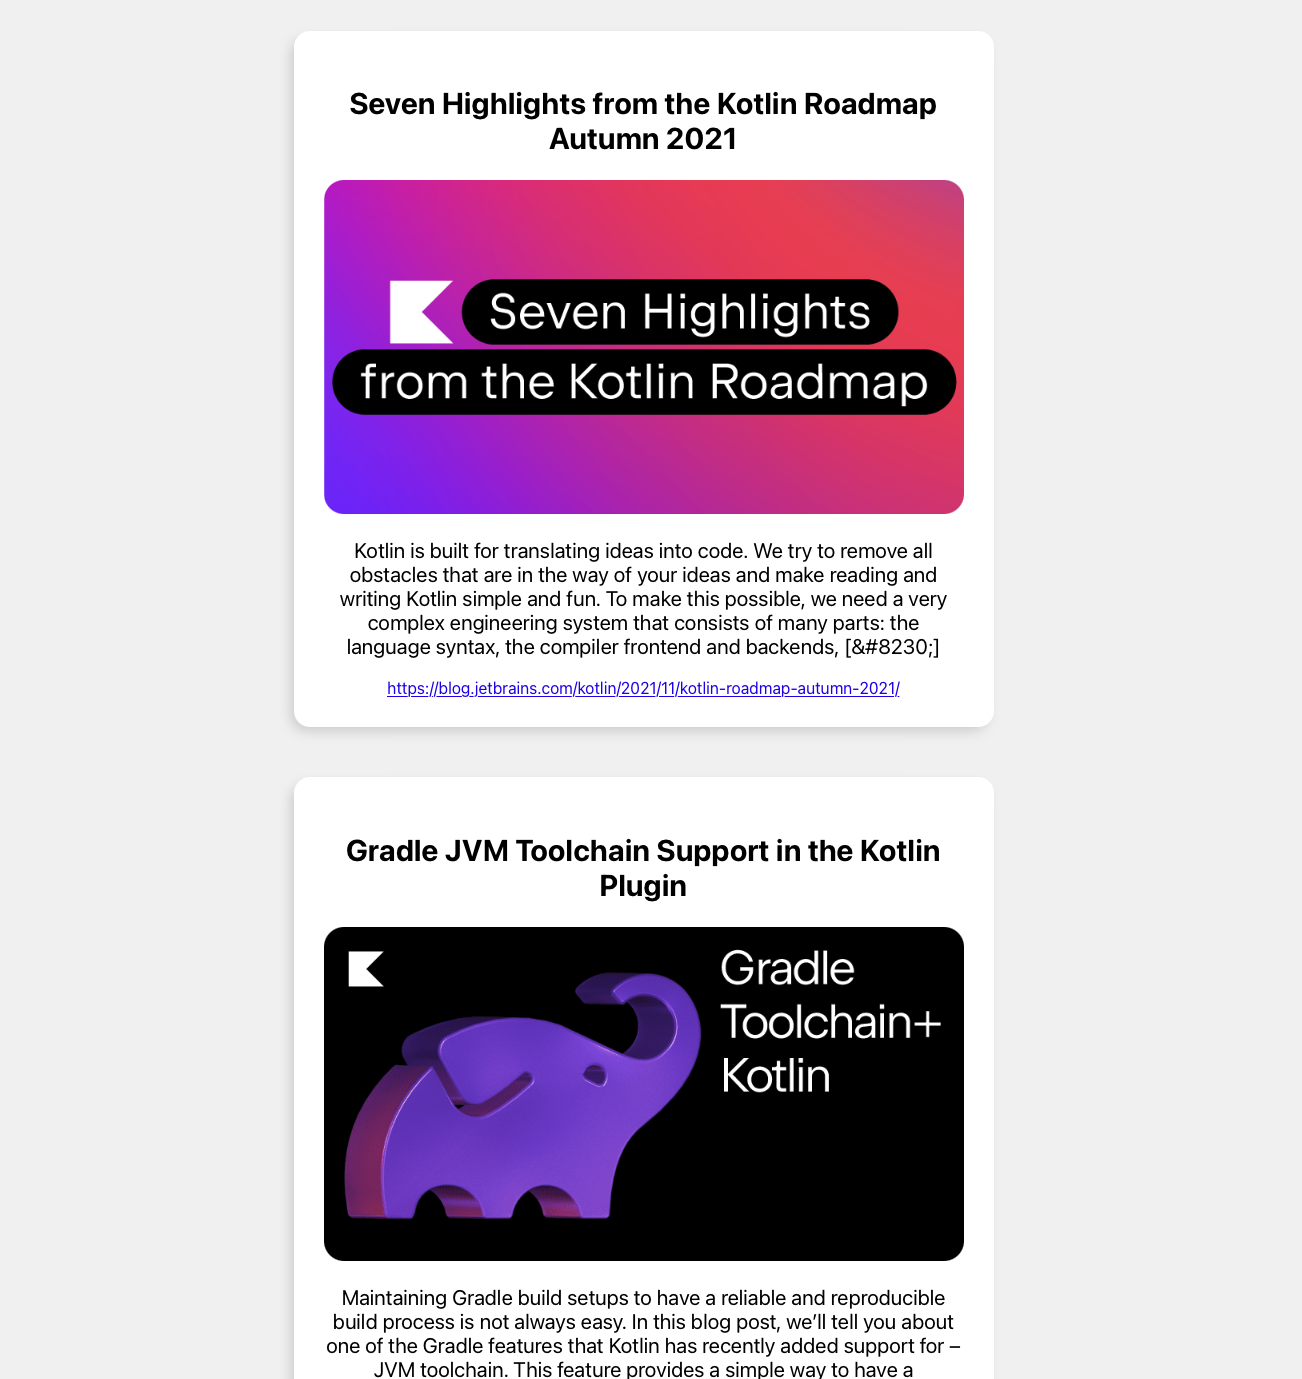
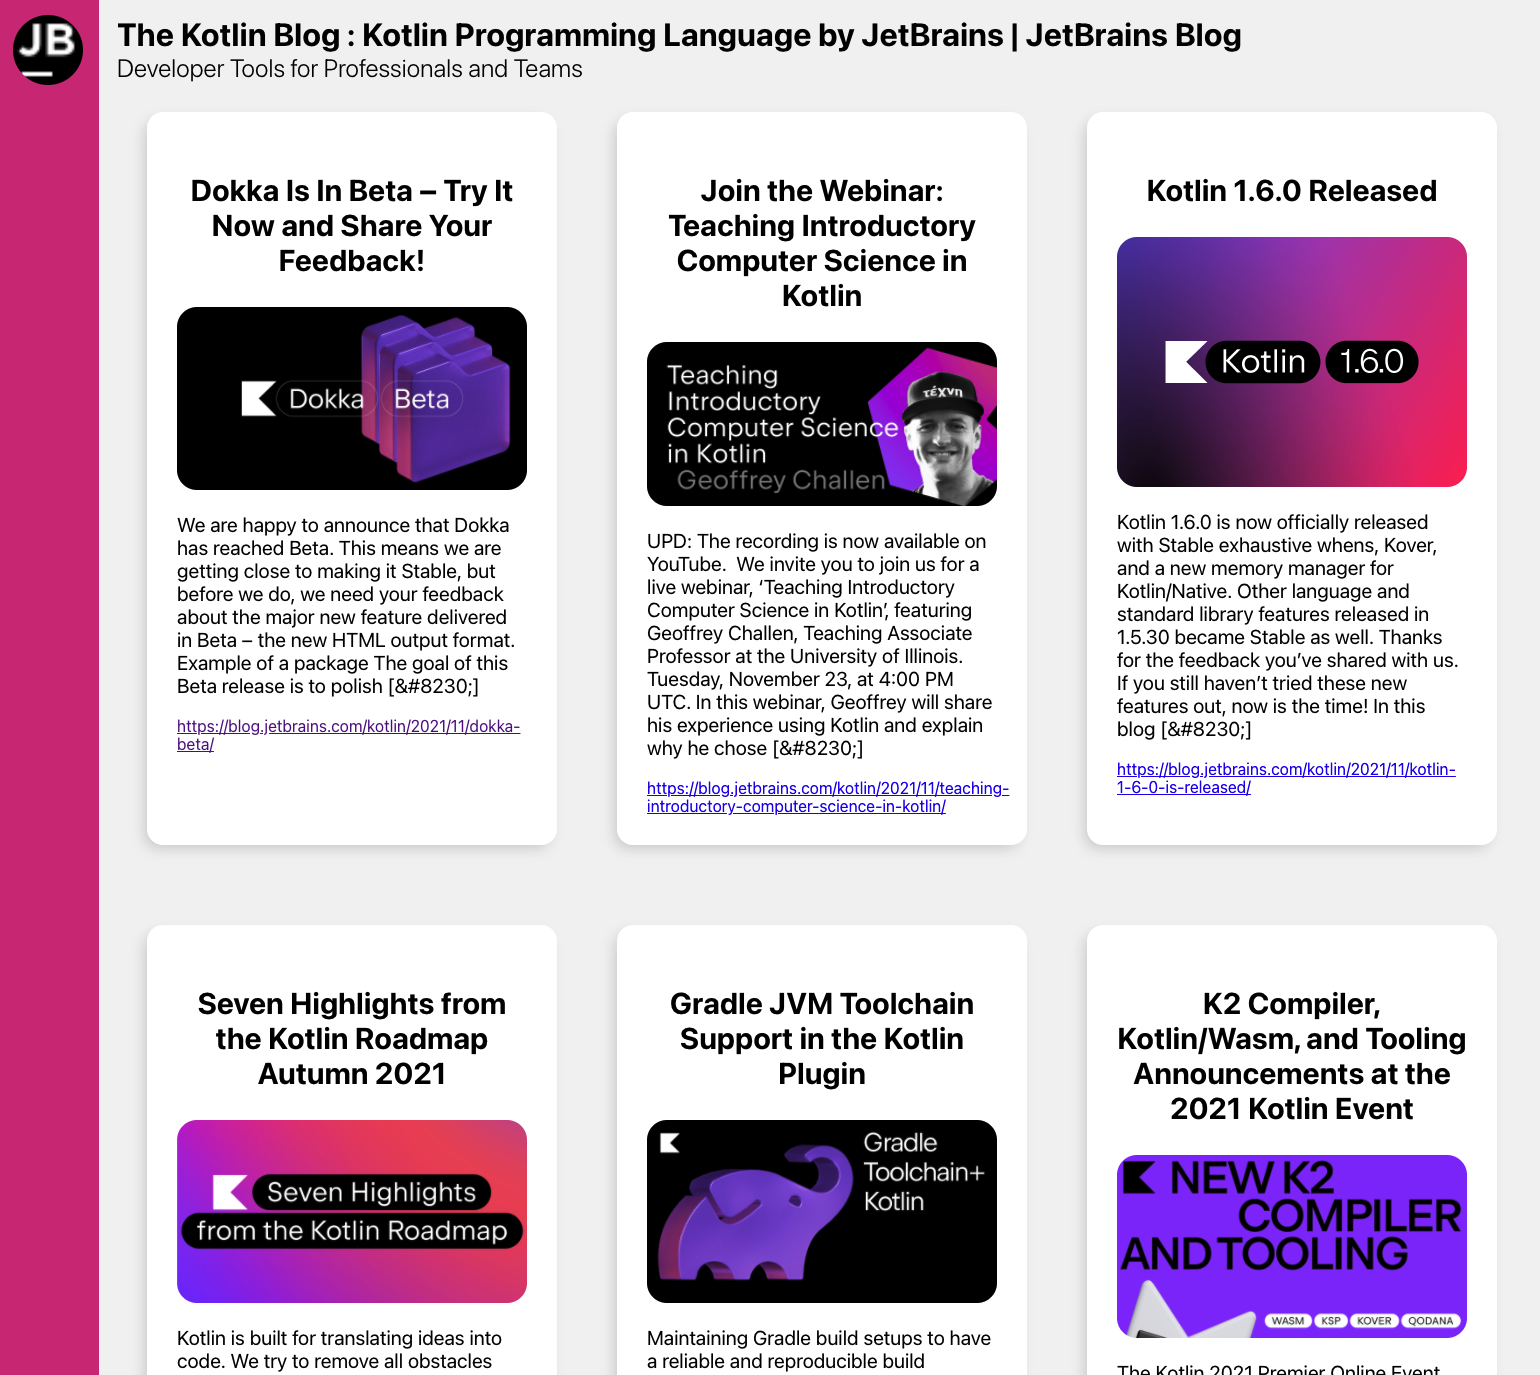
display feed as a grid to beter occupy browser surface

diff --git a/webApp/src/App.js b/webApp/src/App.js
@@ -1,41 +1,59 @@
 import { createContext, useContext, useEffect, useState } from 'react'
-import './App.css';
 import SharedRssreader from 'RssReader-shared';
+import './App.css';
 
 const RssFeedContext = createContext()
 const useRssFeedContext = () => useContext(RssFeedContext)
 
 function RssFeedContextProvider({ children }) {
-  const viewModel = SharedRssreader.com.github.jetbrains.rssreader.app.RssReaderJsViewModel
-  const [posts, setPosts] = useState([])
-  const [loading, setLoading] = useState(false)
-  const [selectedFeed, setSelectedFeed] = useState(null)
-
-  const onStateUpdate = (state) => {
-    setLoading(state.progress)
-    setSelectedFeed(state.selectedFeed)
-    setPosts(state.feeds[0]?.posts)
-  }
+  const SharedNS = SharedRssreader.com.github.jetbrains.rssreader.app
+  const viewModel = SharedNS.RssReaderJsViewModel
+  const stateWrapper = new SharedNS.FeedStateJsWrapper(false, [], null)
+  
+  const [state, setState] = useState(stateWrapper)
 
   useEffect(() => {
-    viewModel.observeState(onStateUpdate)
+    viewModel.observeState(setState)
     viewModel.refreshFeeds(true)
     return () => viewModel.cancel()
   }, [viewModel])
 
   return (
-    <RssFeedContext.Provider value={{ loading, selectedFeed, posts }}>
+    <RssFeedContext.Provider value={{ state }}>
       {children}
     </RssFeedContext.Provider>
   )
 }
 
+function FeedList() {
+  const { state } = useRssFeedContext()  
+  return state.feeds.map(f => (
+    <img src={f.imageUrl} alt={f.title} className="App-feed-thumbnail" key={f.title} />
+  ))
+}
+
 function Feed() {
-  const { loading, posts } = useRssFeedContext();
+  const { state } = useRssFeedContext();
+
+  if (state.feeds.length === 0) return null;
+
+  return (
+    <>
+      <h1>{state.feeds[0].title}</h1>
+      <h2 className="App-feed-description">{state.feeds[0].desc}</h2>
+      <div className="App-posts">
+        <Posts posts={state.feeds[0].posts} />
+      </div>
+    </>
+  )
+}
+
+function Posts({ posts }) {
+  const { state } = useRssFeedContext();
 
   const renderPost = (post) => (
     <div key={`${Math.random()}-${post.title}`} className="App-post">
-      <h2>{post.title}</h2>
+      <h3>{post.title}</h3>
       <img src={post.imageUrl} alt={post.title} />
       <p>{post.desc}</p>
       <a target="_blank" rel="noreferrer" href={post.link}>{post.link}</a>
@@ -43,7 +61,7 @@ function Feed() {
   )
 
   if (!posts) return null
-  if (loading) return <span>Loading feed ...</span>
+  if (state.progress) return <span>Loading feed ...</span>
 
   return posts.map(renderPost)
 }
@@ -52,6 +70,9 @@ function App() {
   return (
     <RssFeedContextProvider>
       <div className="App">
+        <header>
+          <FeedList />
+        </header>
         <main>
           <Feed />
         </main>

diff --git a/webApp/src/index.css b/webApp/src/index.css
@@ -1,5 +1,5 @@
 body {
-  margin: 0;
+  margin: 0;  
   font-family: -apple-system, BlinkMacSystemFont, 'Segoe UI', 'Roboto', 'Oxygen',
     'Ubuntu', 'Cantarell', 'Fira Sans', 'Droid Sans', 'Helvetica Neue',
     sans-serif;
@@ -7,19 +7,33 @@ body {
   -moz-osx-font-smoothing: grayscale;
 }
 
-main {
-  padding: 20px;
-  max-width: 700px;
-  margin-left: auto;
-  margin-right: auto;
+header {
+  position: fixed;
+  height: 100%;
+  padding: 16px;
+  text-align: start;
+  background-color: #d1327d;
 }
 
-h2 {
+main {
+  margin-left: auto;
+  margin-right: auto;
+  padding-left: 120px;
+  margin-top: 16px;
+
+}
+
+h1, h2 {
+  margin: 0;
+}
+
+h3 {
   font-size: 30px;
+  text-align: center;
 }
 
 p {
-  font-size: 21px;
+  font-size: 20px;
 }
 
 hr {

diff --git a/webApp/src/App.css b/webApp/src/App.css
@@ -1,12 +1,31 @@
 .App {
-  text-align: center;
   background-color: #f2f2f2;
+  display: flex;
+  flex-direction: row;
+}
+
+.App-feed-description {
+  font-size: 25px;
+  font-weight: 300;
+}
+
+.App-feed-thumbnail {
+  width: 70px;
+  height: 70px;
+  border-radius: 35px;
+}
+
+.App-posts {
+  display: flex;
+  flex-wrap: wrap;
 }
 
 .App-post {
+  max-width: 350px;
   border-radius: 16px;
   background-color: #ffffff;
   padding: 30px;
+  margin: 30px;
   margin-bottom: 50px;
   box-shadow: -5px 6px 14px -3px #ccc;
   -webkit-box-shadow: -5px 6px 14px -3px #ccc;
